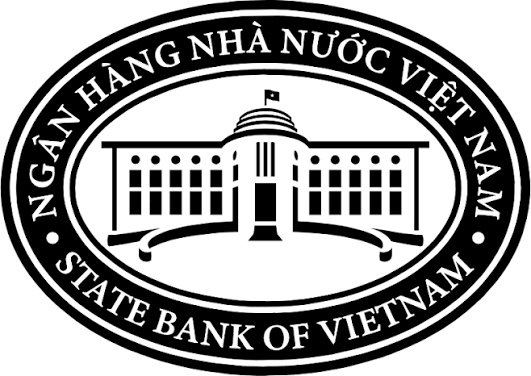
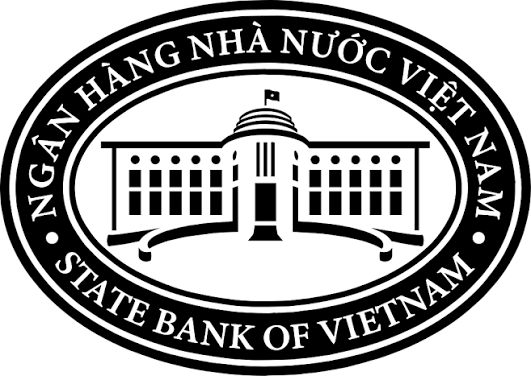
content: replace broken cover for agribank-bidv-ncb post
The .jpg cover committed in 572cd81 was actually a 442KB HTML document
saved with an image extension, so the post rendered a broken image.

Point `cover` at the .png instead and update the image with the State
Bank of Vietnam logo. Kept as PNG rather than converting to .jpg since
the artwork is black-and-white line art that JPEG would fringe.

diff --git a/content/posts.ts b/content/posts.ts
@@ -26,7 +26,7 @@ export const POSTS: Post[] = [
     topics: ["chinh-sach-su-kien","cau-thanh-khoan"],
     excerpt: "Sau chỉ đạo của Ngân hàng Nhà nước, Agribank, BIDV và NCB đã có động thái điều chỉnh lãi suất mới, phản ánh xu hướng tín dụng hiện nay.",
     readingTime: "3 phút đọc",
-    cover: "/images/blog/agribank-bidv-ncb-dieu-chinh-lai-sau-chi-dao-ngan-hang-nha-nuoc.jpg",
+    cover: "/images/blog/agribank-bidv-ncb-dieu-chinh-lai-sau-chi-dao-ngan-hang-nha-nuoc.png",
     date: "2026-08-11",
     source: {
         "name": "nguoiquansat.vn",
